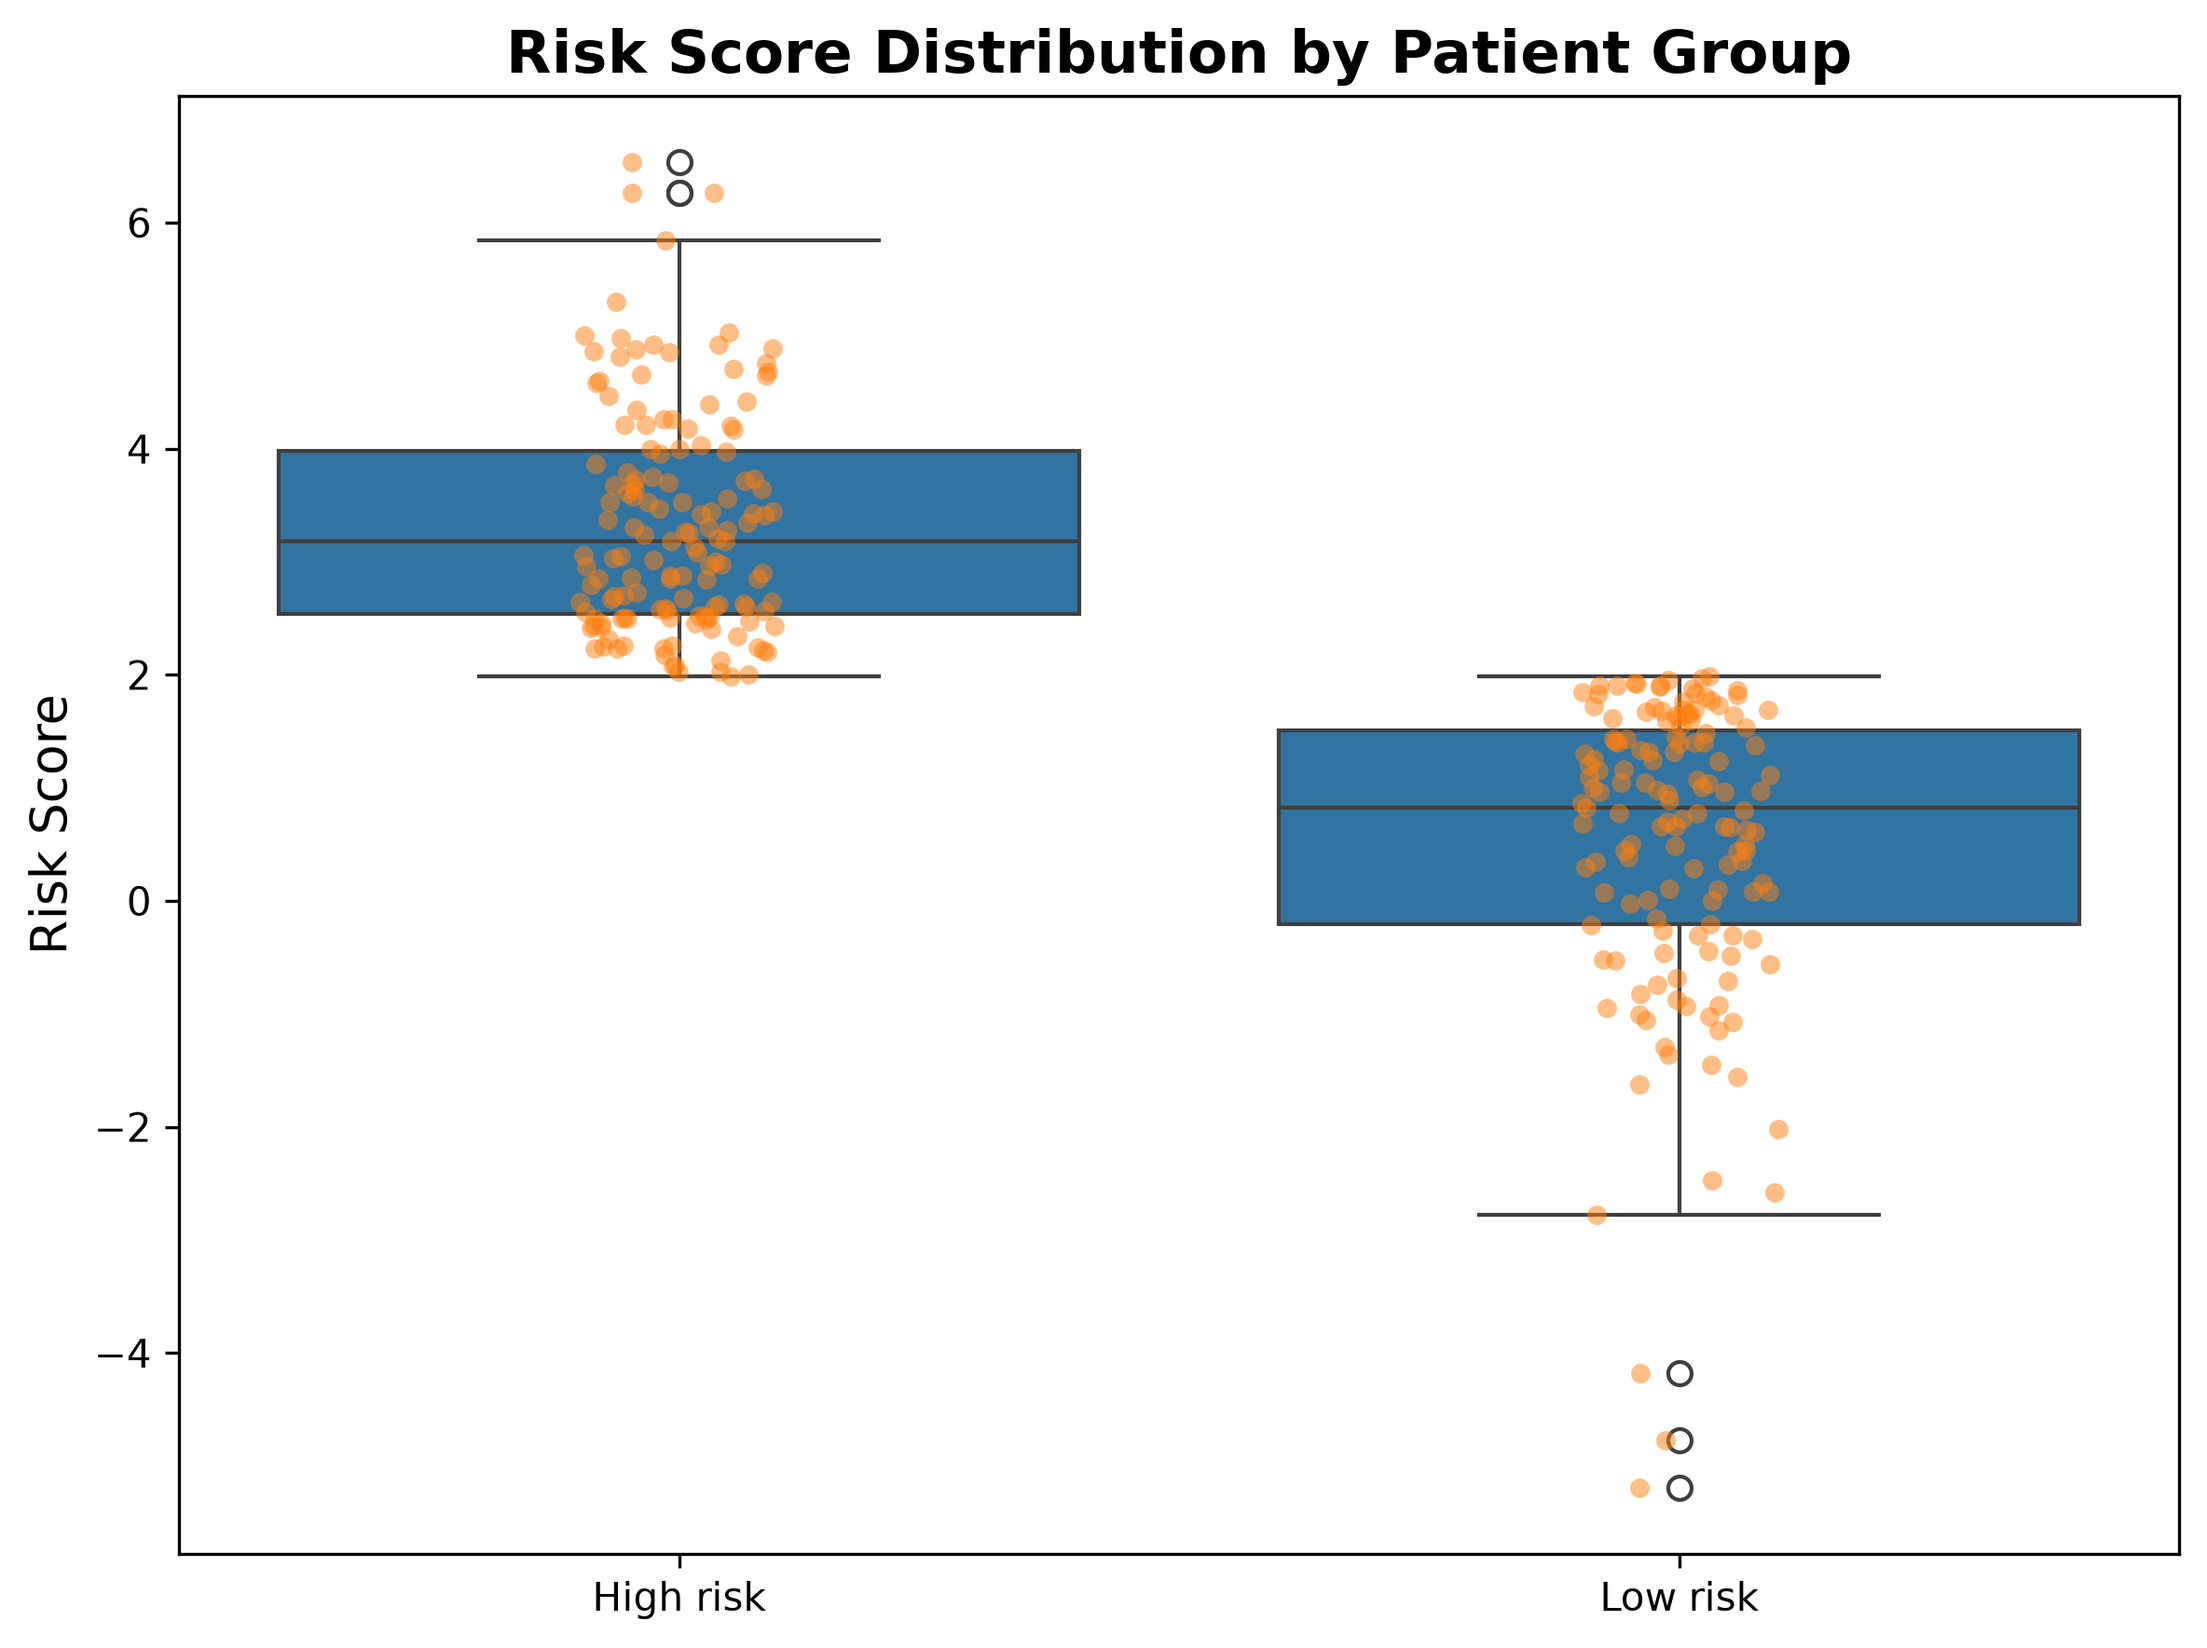
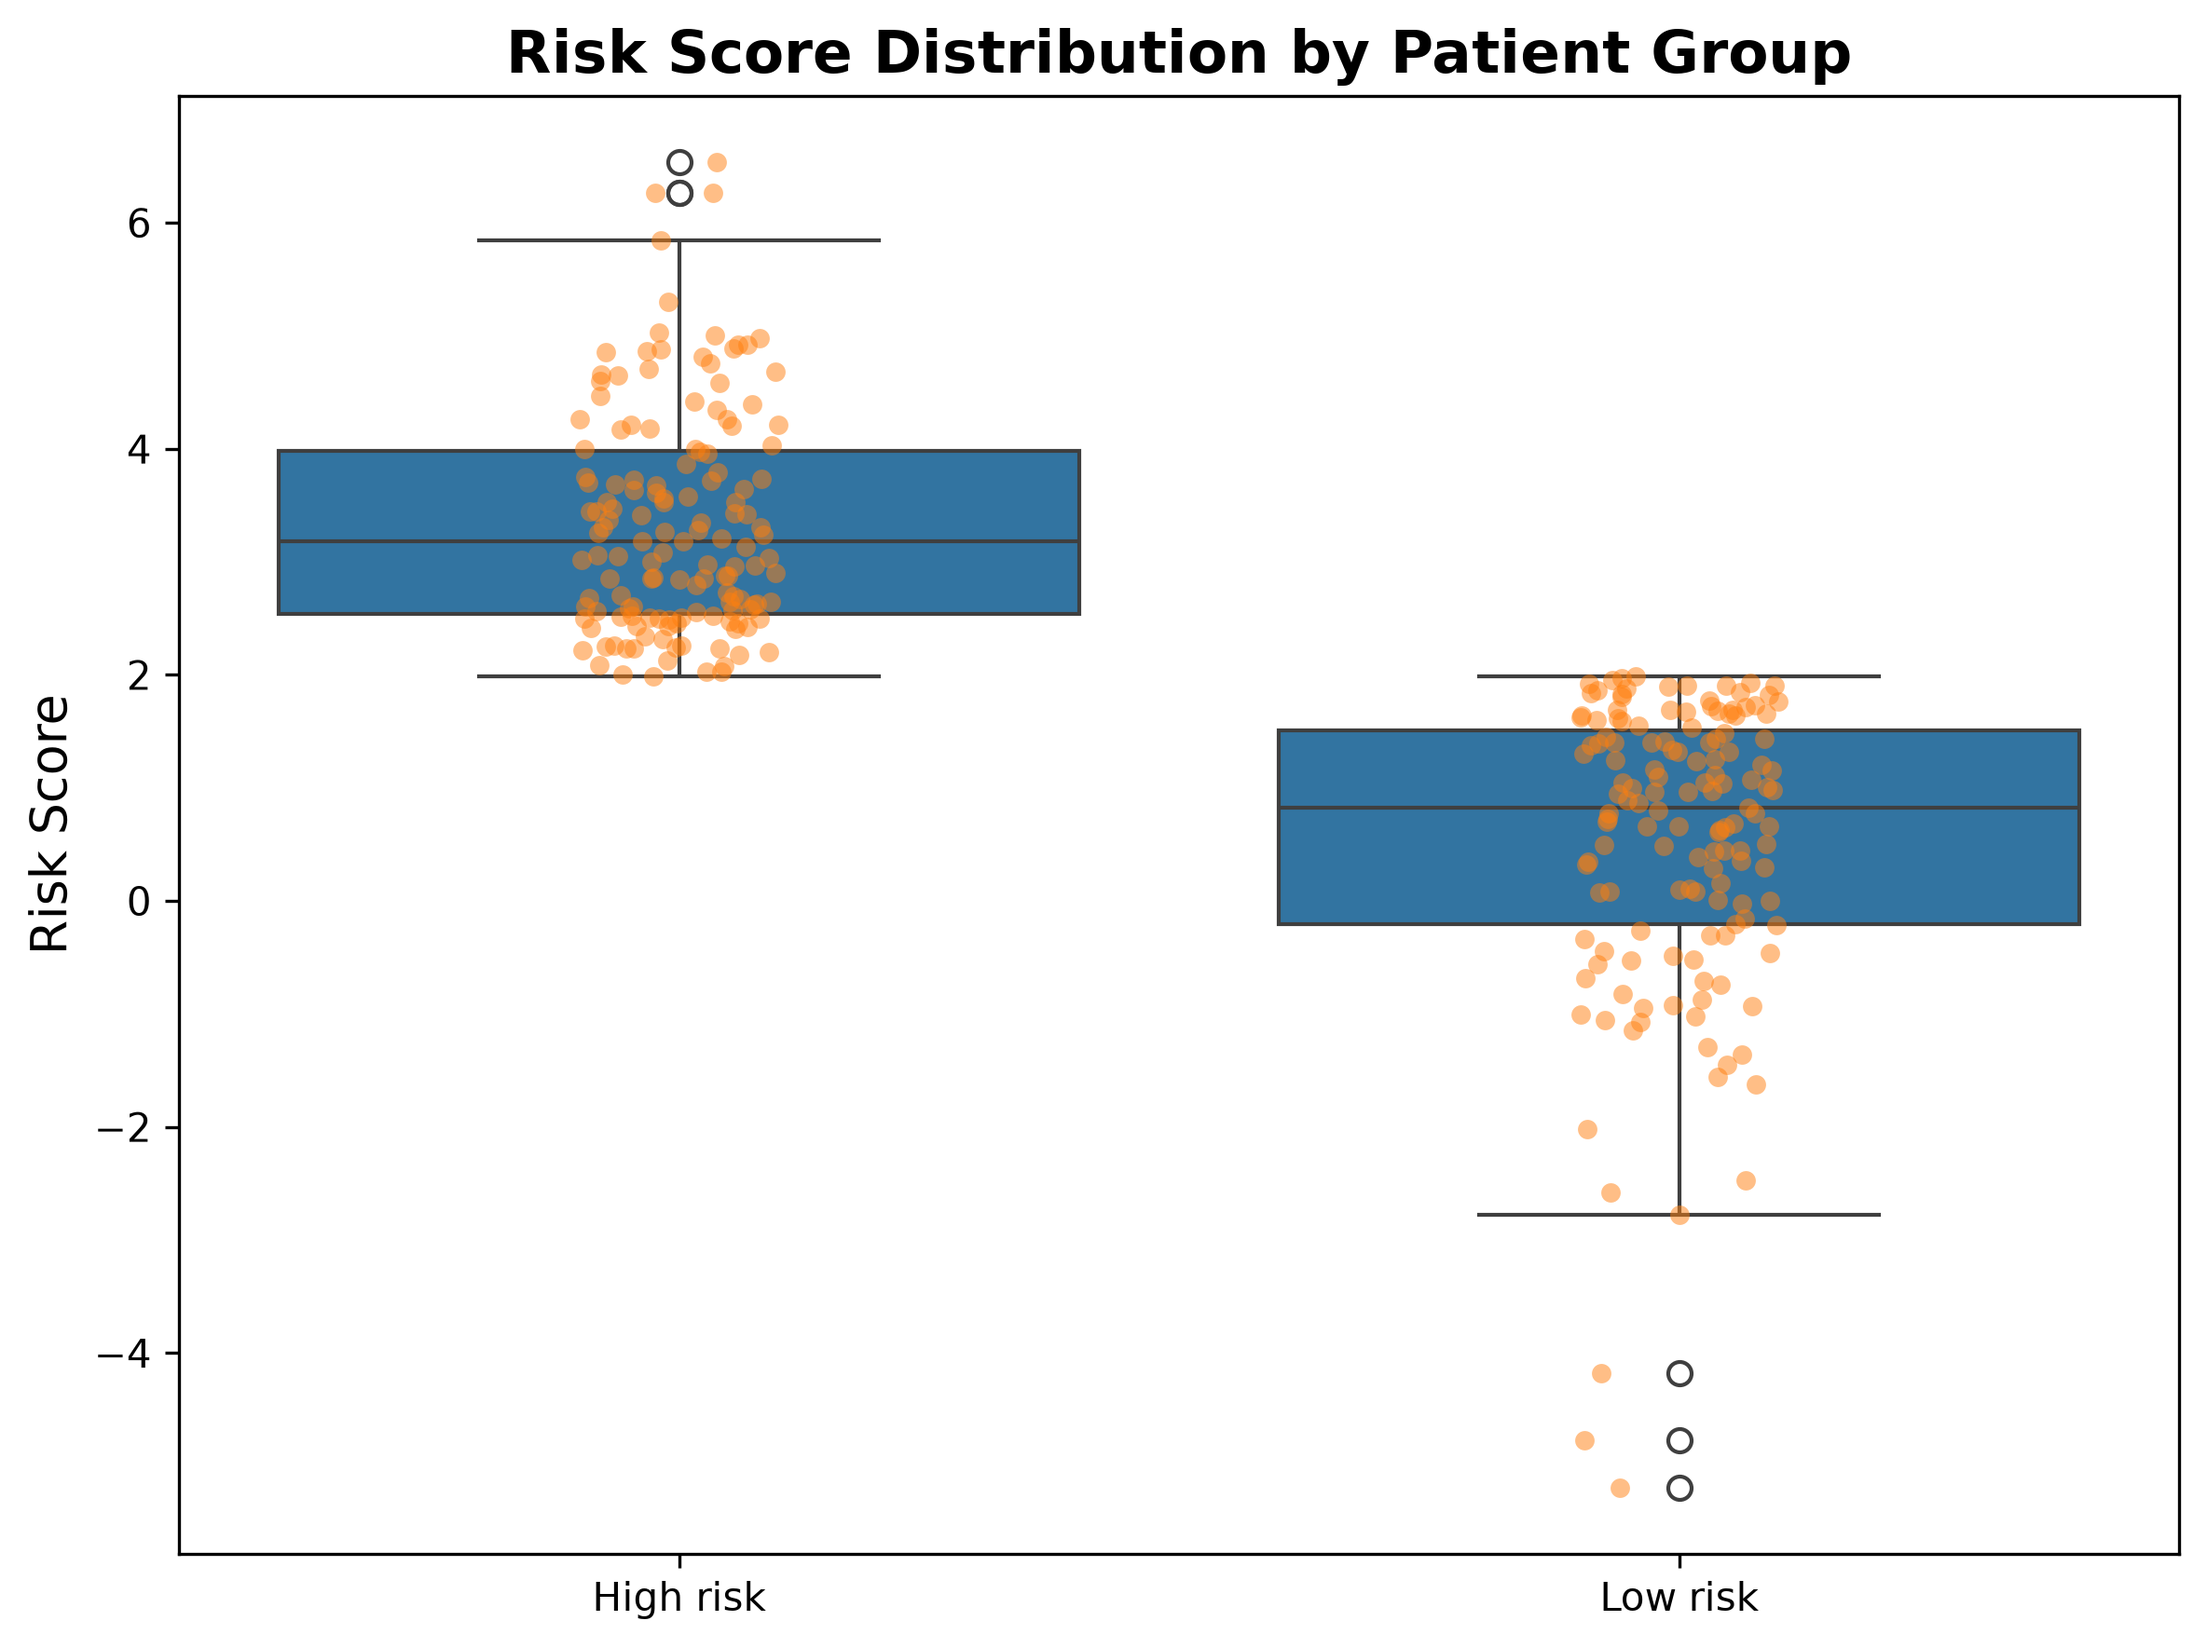
Re-run full GSE2034 pipeline; make consensus ranking deterministic
Regenerated every result and figure from public GSE2034 + GPL96 data.
All tables reproduce byte-for-byte except consensus_biomarkers.csv,
whose tie-broken row order is now deterministic (sort by score then gene).

diff --git a/scripts/27_feature_overlap.py b/scripts/27_feature_overlap.py
@@ -88,9 +88,9 @@ consensus = pd.DataFrame(
 
 
 consensus = consensus.sort_values(
-    "Consensus_score",
-    ascending=False
-)
+    ["Consensus_score", "Gene"],
+    ascending=[False, True]
+).reset_index(drop=True)
 
 
 
